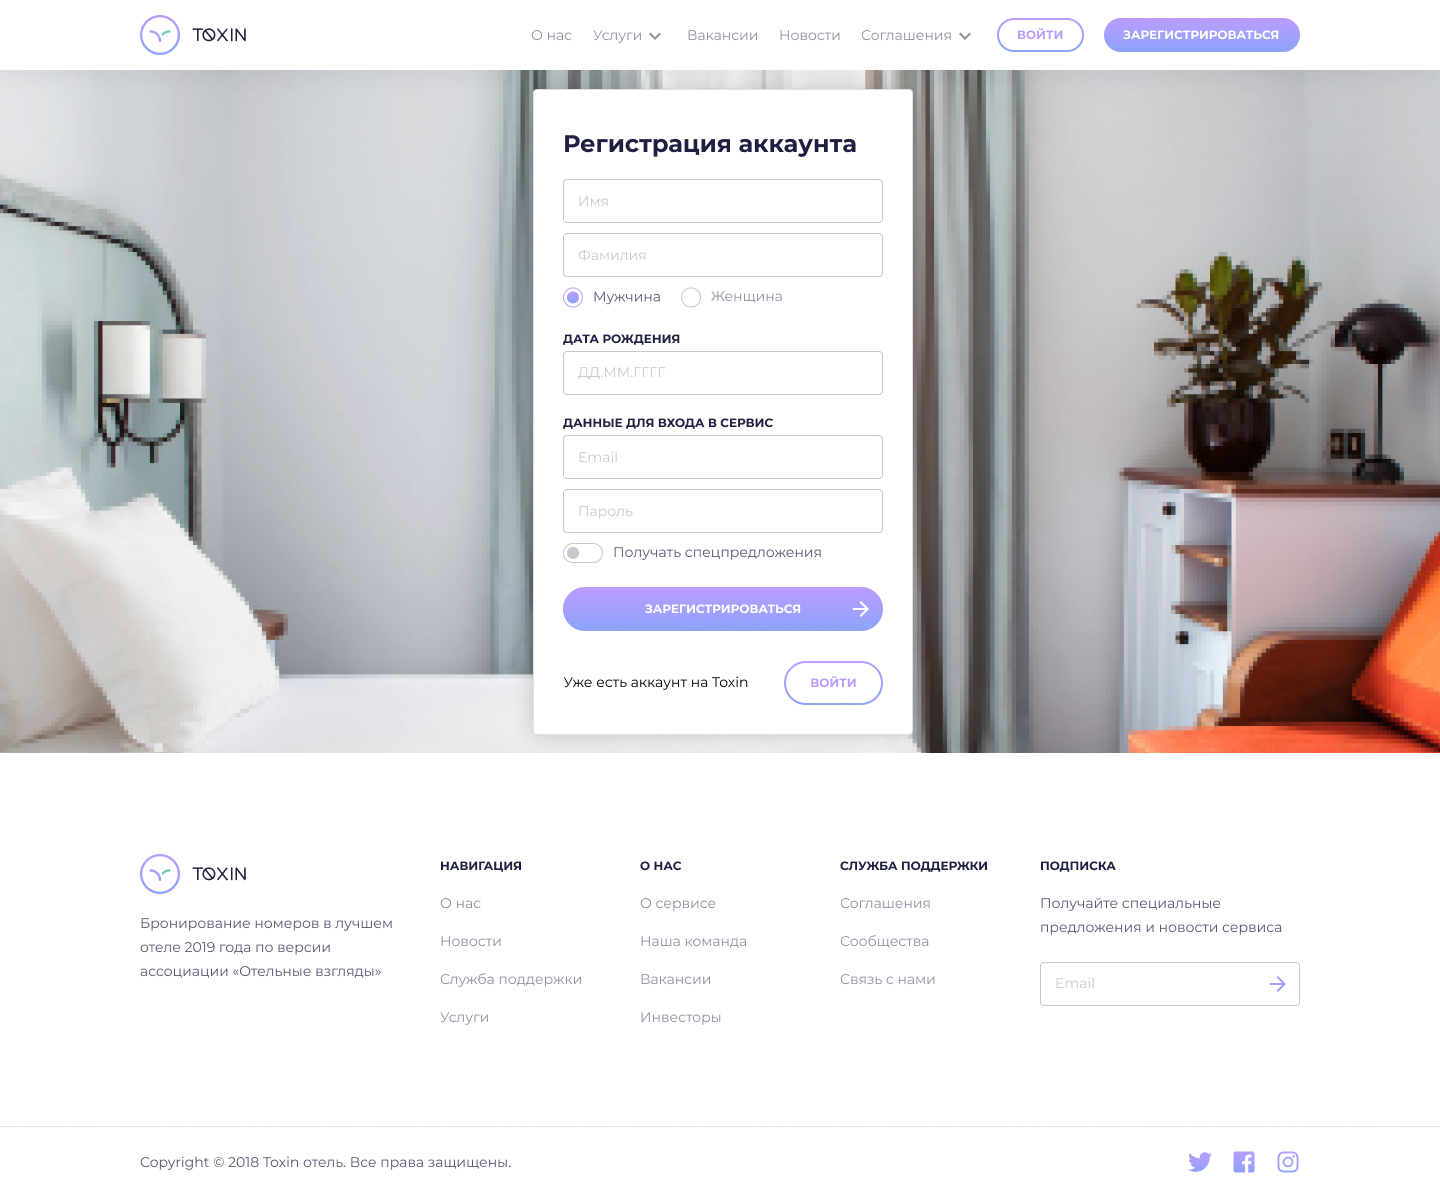
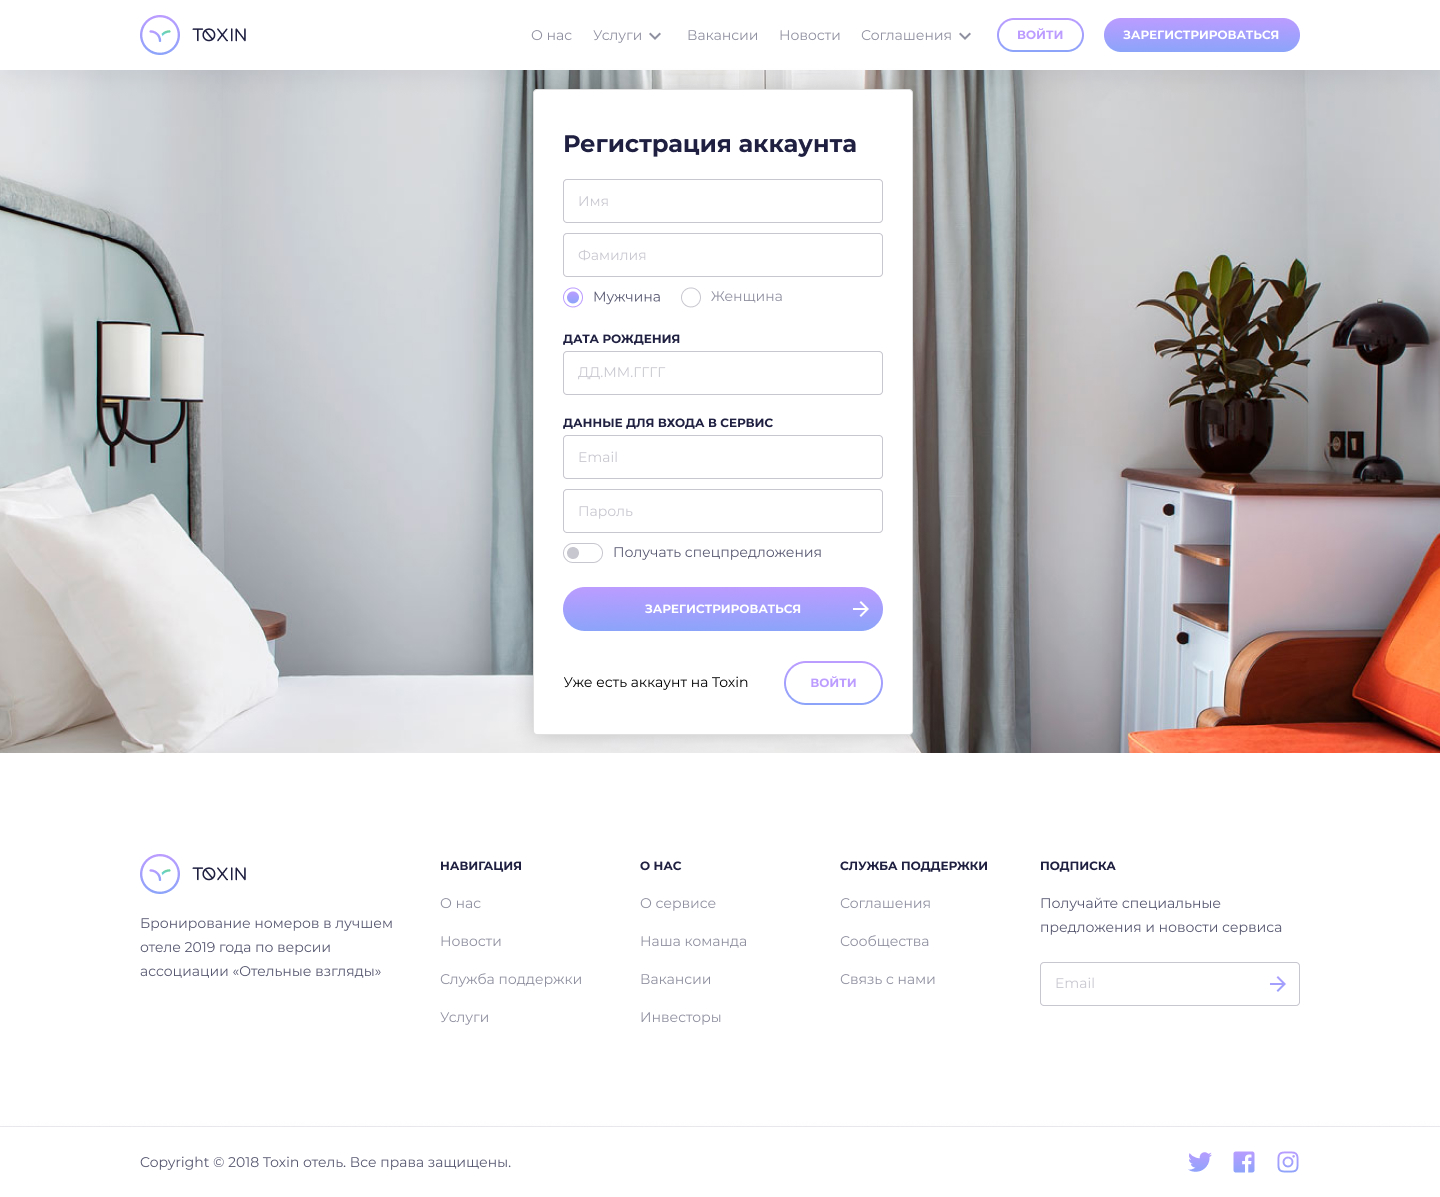
Cделал responsive верстку для страницы регистрации, входа и поиска номеров

diff --git a/src/pages/search-room/js/filter.js b/src/pages/search-room/js/filter.js
@@ -4,35 +4,58 @@ import {
 } from 'body-scroll-lock';
 
 function initFilterToggle() {
-  const blockFilter = document.querySelector('.js-search-room__aside');
-  const btnToogleFilter = document.querySelector('.js-search-room__aside-btn');
+  const blockWithFilter = document.querySelector('.js-search-room__aside');
+  const btnToggleFilter = document.querySelector('.js-search-room__aside-btn');
+  const focusLimiter = document.querySelector('.js-search-room__limiter');
+  const allElemCanToggleWithTab = blockWithFilter.querySelectorAll('input, button, [tabindex="0"]:not(input)');
+
+  // устанавливаем полям tabindex
+  function setTabindex(selector) {
+    selector.forEach(elem => {
+      if (blockWithFilter.classList.contains('search-room__aside_opened')) {
+        elem.setAttribute('tabindex', '0');
+      } else if (window.matchMedia('(max-width: 1100px)').matches) {
+        elem.setAttribute('tabindex', '-1');
+      } else {
+        elem.setAttribute('tabindex', '0');
+      }
+    });
+  }
 
   // открытие/закрытие фильтра
   function toggleFilter() {
-    blockFilter.classList.toggle('search-room__aside_opened');
-    btnToogleFilter.classList.toggle('search-room__aside-btn_opened');
+    blockWithFilter.classList.toggle('search-room__aside_opened');
+    btnToggleFilter.classList.toggle('search-room__aside-btn_opened');
 
-    if (btnToogleFilter.classList.contains('search-room__aside-btn_opened')) {
-      btnToogleFilter.textContent = 'Закрыть фильтр';
-      disableBodyScroll(blockFilter);
+    if (btnToggleFilter.classList.contains('search-room__aside-btn_opened')) {
+      btnToggleFilter.textContent = 'Закрыть фильтр';
+      disableBodyScroll(blockWithFilter);
     } else {
-      btnToogleFilter.textContent = 'Открыть фильтр';
-      enableBodyScroll(blockFilter);
+      btnToggleFilter.textContent = 'Открыть фильтр';
+      enableBodyScroll(blockWithFilter);
     }
+    setTabindex(allElemCanToggleWithTab);
   }
 
   // отслеживание ресайза и видимости фильтра
   function resizeChecker() {
-    if (window.matchMedia('(min-width: 768px)').matches) {
-      blockFilter.classList.remove('search-room__aside_opened');
-      btnToogleFilter.classList.remove('search-room__aside-btn_opened');
-      btnToogleFilter.textContent = 'Открыть фильтр';
-      enableBodyScroll(blockFilter);
+    if (window.matchMedia('(min-width: 1101px)').matches) {
+      blockWithFilter.classList.remove('search-room__aside_opened');
+      btnToggleFilter.classList.remove('search-room__aside-btn_opened');
+      btnToggleFilter.textContent = 'Открыть фильтр';
+      enableBodyScroll(blockWithFilter);
     }
+    setTabindex(allElemCanToggleWithTab);
   }
 
+  function setLimiterForFocus() {
+    if (blockWithFilter.classList.contains('search-room__aside_opened')) toggleFilter();
+  }
+
+  setTabindex(allElemCanToggleWithTab);
   window.addEventListener('resize', resizeChecker);
-  btnToogleFilter.addEventListener('click', toggleFilter);
+  btnToggleFilter.addEventListener('click', toggleFilter);
+  focusLimiter.addEventListener('focusout', setLimiterForFocus);
 }
 
 export default initFilterToggle;

diff --git a/src/pages/search-room/search-room.scss b/src/pages/search-room/search-room.scss
@@ -11,21 +11,22 @@
 .search-room {
   &__wrapper {
     margin-top: 30px;
+    min-width: 300px;
     display: grid;
-    grid-template-columns: 326px auto;
+    grid-template-columns: 324px auto;
 
     @media (max-width: 950px) {
       grid-template-columns: auto auto;
       gap: 0 20px;
     }
 
-    @media (max-width: 767px) {
+    @media (max-width: 1100px) {
       grid-template-columns: auto;
     }
   }
 
   &__aside {
-    @media (max-width: 767px) {
+    @media (max-width: 1100px) {
       position: fixed;
       background-color: #fff;
       transition: left 0.5s linear;
@@ -52,7 +53,7 @@
   &__aside-btn {
     display: none;
 
-    @media (max-width: 767px) {
+    @media (max-width: 1100px) {
       display: inline-block;
       position: fixed;
       top: 50%;
@@ -116,7 +117,7 @@
   }
 
   &__content {
-    @media (max-width: 910px) {
+    @media (max-width: 1100px) {
       text-align: center;
     }
   }
@@ -133,6 +134,11 @@
   &__pagination {
     display: flex;
     justify-content: center;
-    margin-bottom: 76px;
+    margin-bottom: 75px;
+    margin-right: 18px;
+
+    @media (max-width: 767px) {
+      margin-right: 0;
+    }
   }
 }

diff --git a/src/components/card-room/card-room.js b/src/components/card-room/card-room.js
@@ -41,11 +41,11 @@ function convertComment() {
     const numberRemainingAfter = numberOfComments % 10;
 
     if (numberRemaining > 5 && numberRemaining < 21) {
-      elem.innerHTML = `<span>${numberOfComments}</span> Отзывов`;
+      elem.innerHTML = `<span class="card-room__comment-number">${numberOfComments}</span> Отзывов`;
     } else if (numberRemainingAfter > 1 && numberRemainingAfter < 5) {
-      elem.innerHTML = `<span>${numberOfComments}</span> Отзыва`;
+      elem.innerHTML = `<span class="card-room__comment-number">${numberOfComments}</span> Отзыва`;
     } else if (numberRemainingAfter === 1) {
-      elem.innerHTML = `<span>${numberOfComments}</span> Отзыв`;
+      elem.innerHTML = `<span class="card-room__comment-number">${numberOfComments}</span> Отзыв`;
     }
   });
 }

diff --git a/src/pages/registration/registration.scss b/src/pages/registration/registration.scss
@@ -1,18 +1,23 @@
 @import '@lo/page/page';
 @import '@comp/card-reg/card-reg';
 
-.registration__block {
-  display: flex;
-  justify-content: center;
-  align-items: center;
-  background-image: url('./img/bg-page-reg.jpg');
-  background-size: cover;
-  background-position: center;
-  background-repeat: no-repeat;
-  min-height: 683px;
-  padding: 0 15px;
+.registration {
+  &__wrapper {
+    background-image: url('./img/bg-page-reg.jpg');
+    background-size: 106.5%;
+    background-position: 50% 51%;
+    background-repeat: no-repeat;
+    min-width: 310px;
+    min-height: 47vw;
+    padding: 19px 0 17px 0;
 
-  @media (max-width: 380px) {
-    padding: 100px 15px;
+    @media (max-width: 1439px) {
+      background-size: cover;
+    }
+  }
+
+  &__block {
+    display: flex;
+    justify-content: center;
   }
 }

diff --git a/src/pages/sign-in/sign-in.scss b/src/pages/sign-in/sign-in.scss
@@ -1,14 +1,24 @@
 @import '@lo/page/page';
 @import '@comp/card-input/card-input';
 
-.login__block {
-  display: flex;
-  justify-content: center;
-  align-items: center;
-  background-image: url('./img/bg-page-reg.jpg');
-  background-size: cover;
-  background-position: center;
-  background-repeat: no-repeat;
-  min-height: 683px;
-  padding: 0 15px;
+.sign-in {
+  &__wrapper {
+    background-image: url('./img/bg-page-reg.jpg');
+    background-size: 106.7%;
+    background-position: 50% 52%;
+    background-repeat: no-repeat;
+    min-width: 310px;
+    min-height: 46.5vw;
+
+    @media (max-width: 1439px) {
+      background-size: cover;
+    }
+  }
+
+  &__block {
+    padding: 14% 0;
+    display: flex;
+    justify-content: center;
+    align-items: center;
+  }
 }

diff --git a/src/components/header/header.js b/src/components/header/header.js
@@ -128,7 +128,7 @@ function initMenu() {
   }
 
   // закрытие меню при клике вне меню
-  function toogleMenuClickOut(e) {
+  function toggleMenuClickOut(e) {
     if (e.target === menuOverlay) {
       toggleClassesMenu();
       setTabindexForLink();
@@ -172,7 +172,7 @@ function initMenu() {
 
   hamburger.addEventListener('keydown', activatingHamburgerWithEnter);
   hamburger.addEventListener('click', activatingHamburger);
-  menuOverlay.addEventListener('click', toogleMenuClickOut);
+  menuOverlay.addEventListener('click', toggleMenuClickOut);
   window.addEventListener('resize', resizeChecker);
 }
 

diff --git a/src/components/header/header.scss b/src/components/header/header.scss
@@ -4,13 +4,13 @@
 .header {
   &__logo img {
 
-    @media (max-width: 575px) {
+    @media (max-width: 650px) {
       width: 90px;
     }
   }
 
   &__block {
-    min-width: 280px;
+    min-width: 310px;
     width: 100%;
     min-height: 70px;
     background: #FFFFFF;
@@ -211,7 +211,7 @@
     &:last-child {
       margin-right: 0;
 
-      @media (max-width: 575px) {
+      @media (max-width: 650px) {
         display: none;
       }
     }

diff --git a/src/components/input/input.scss b/src/components/input/input.scss
@@ -61,7 +61,7 @@
     background: #FFFFFF;
     border: 1px solid $dark25;
     border-radius: 4px;
-    padding: 13px 16px;
+    padding: 13px 15px;
     font-size: 13.6px;
     color: $dark75;
     transition: border 0.2s ease-in;

diff --git a/src/pages/index/index.scss b/src/pages/index/index.scss
@@ -3,7 +3,7 @@
 
 .main-page {
   &__block {
-    min-width: 280px;
+    min-width: 310px;
     background-image: url('./img/main-page-bg.jpg');
     background-size: 107%;
     background-position: 50% 68%;

diff --git a/src/components/card-reg/card-reg.scss b/src/components/card-reg/card-reg.scss
@@ -6,7 +6,7 @@
 .card-reg {
   &__block {
     max-width: 380px;
-    min-width: 270px;
+    min-width: 300px;
     min-height: 358px;
     background: #FFFFFF;
     border: 1px solid rgba(0, 0, 0, 0.12);

diff --git a/src/components/footer-copyright/footer-copyright.scss b/src/components/footer-copyright/footer-copyright.scss
@@ -3,7 +3,7 @@
 .footer {
   &__copyright {
     margin-top: 1px;
-    min-width: 270px;
+    min-width: 310px;
     width: 100%;
     background: #FFFFFF;
     box-shadow: 0px 10px 20px $dark5;

diff --git a/src/components/pagination/pagination.scss b/src/components/pagination/pagination.scss
@@ -3,6 +3,10 @@
     display: flex;
     justify-content: flex-start;
     height: 40px;
+
+    @media (max-width: 767px) {
+      justify-content: center;
+    }
   }
 
   &__btn {
